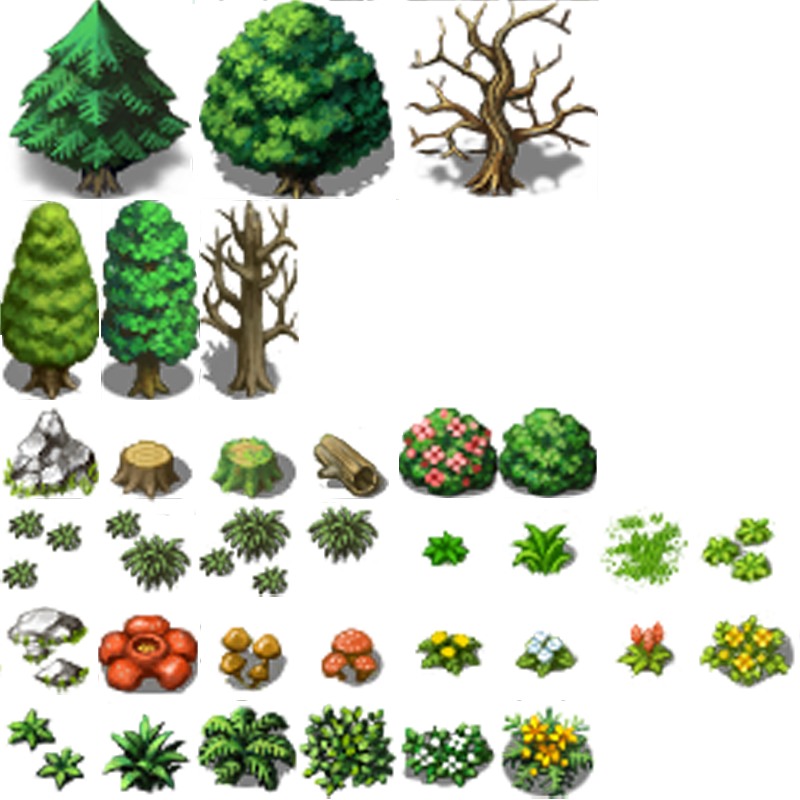
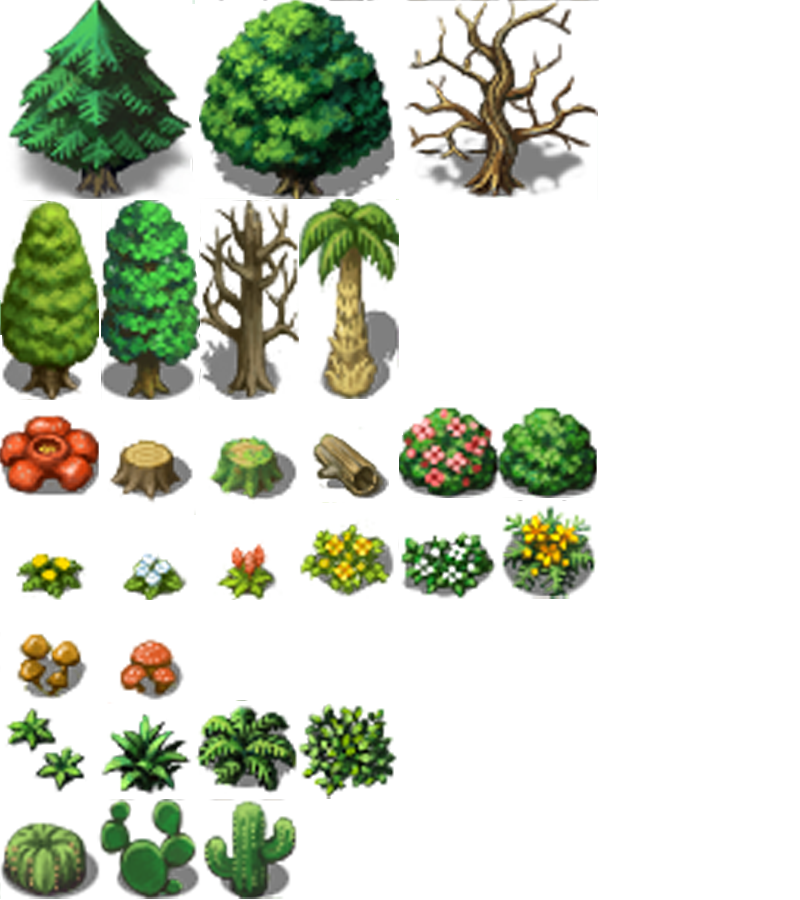
rocks

diff --git a/gamepalclient/src/components/worldComponent.vue b/gamepalclient/src/components/worldComponent.vue
@@ -212,6 +212,8 @@
             <img id="outfits_e_0" src="../assets/image/characters/outfits/e_0.png" />
 
             <img id="plants" src="../assets/image/scenes/plants.png" />
+            <img id="rocks" src="../assets/image/scenes/rocks.png" />
+
             <img id="buttons" src="../assets/image/buttons.png" />
             <img id="smallButtons" src="../assets/image/small-buttons.png" />
             <img id="balloons" src="../assets/image/balloons.png" />
@@ -431,7 +433,8 @@ export default {
       [document.getElementById('outfits_e_0')]
     ]
     scenesImage = {
-      'p': document.getElementById('plants')
+      'p': document.getElementById('plants'),
+      'r': document.getElementById('rocks')
     }
     buttons = document.getElementById('buttons')
     smallButtons = document.getElementById('smallButtons')
